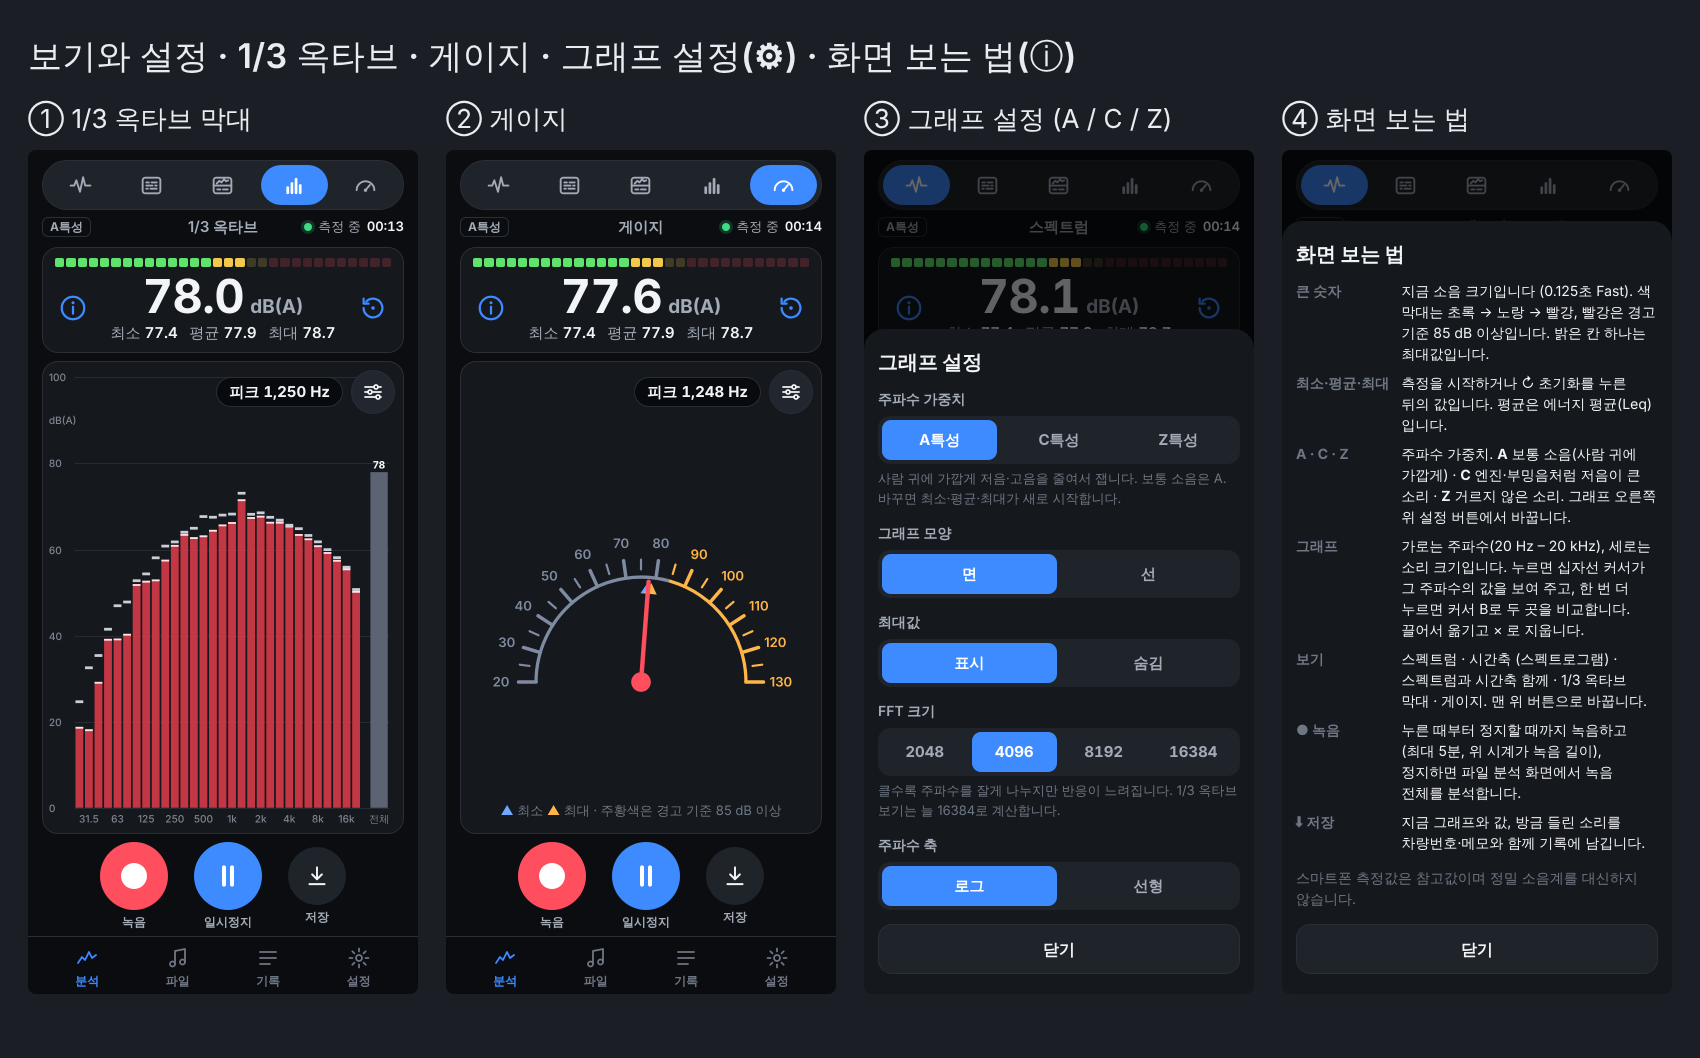
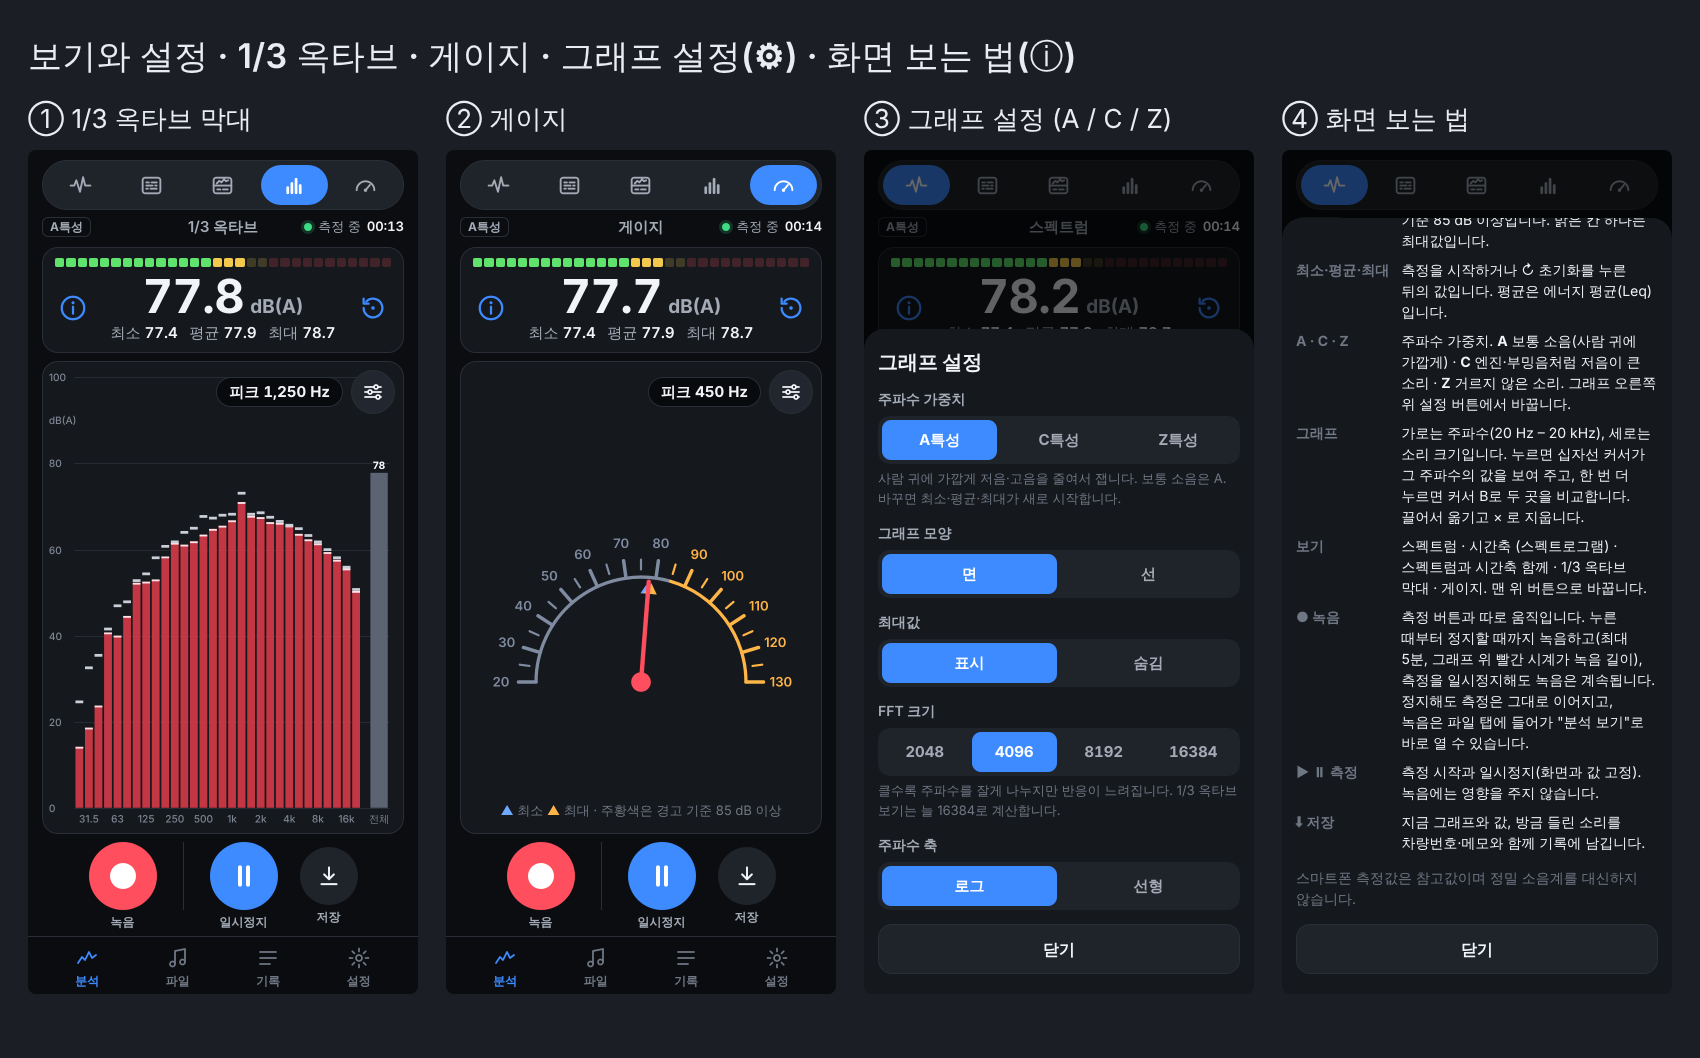
Keep the record button separate from start/pause
- Recording no longer follows the measurement: the record button does not
  resume a paused measurement, pausing does not stop the recording (the worklet
  records while paused; only the display and the "save" buffer hold still), and
  stopping a recording keeps measuring on the analyzer instead of jumping to the
  file screen. The recording goes to the file tab and a toast offers "분석 보기".
- The recording has its own clock in a red badge on the chart; the status line
  always shows the measuring state and time.
- The buttons sit in two groups with a divider: record | start/pause, save.
  Toasts on the analyzer sit above the buttons.
- Tests: the worklet keeps recording while paused; the e2e starts a recording
  while paused, resumes, stops, checks measuring goes on and opens the file.
  Version 0.6.1.

Claude-Session: https://claude.ai/code/session_019bnsVk5WHx5aXZAwj9JYTg

diff --git a/js/app.js b/js/app.js
@@ -62,12 +62,24 @@ function showFatal(err) {
 /* ---------- small UI helpers ---------- */
 
 let toastTimer;
-function toast(message) {
+// action: { label, run } adds a button and keeps the message up longer
+function toast(message, action = null) {
   const el = document.getElementById('toast');
   el.textContent = message;
+  if (action) {
+    const b = document.createElement('button');
+    b.type = 'button';
+    b.className = 'toast-action';
+    b.textContent = action.label;
+    b.onclick = () => {
+      el.hidden = true;
+      action.run();
+    };
+    el.append(b);
+  }
   el.hidden = false;
   clearTimeout(toastTimer);
-  toastTimer = setTimeout(() => (el.hidden = true), 2600);
+  toastTimer = setTimeout(() => (el.hidden = true), action ? 8000 : 2600);
 }
 
 function openSheet(html) {
@@ -214,7 +226,8 @@ function helpSheet() {
         <dt>A · C · Z</dt><dd>주파수 가중치. <b>A</b> 보통 소음(사람 귀에 가깝게) · <b>C</b> 엔진·부밍음처럼 저음이 큰 소리 · <b>Z</b> 거르지 않은 소리. 그래프 오른쪽 위 설정 버튼에서 바꿉니다.</dd>
         <dt>그래프</dt><dd>가로는 주파수(20 Hz – 20 kHz), 세로는 소리 크기입니다. 누르면 십자선 커서가 그 주파수의 값을 보여 주고, 한 번 더 누르면 커서 B로 두 곳을 비교합니다. 끌어서 옮기고 × 로 지웁니다.</dd>
         <dt>보기</dt><dd>${MODES.map((m) => m.label).join(' · ')}. 맨 위 버튼으로 바꿉니다.</dd>
-        <dt>● 녹음</dt><dd>누른 때부터 정지할 때까지 녹음하고(최대 ${MAX_RECORD_SEC / 60}분, 위 시계가 녹음 길이), 정지하면 파일 분석 화면에서 녹음 전체를 분석합니다.</dd>
+        <dt>● 녹음</dt><dd>측정 버튼과 따로 움직입니다. 누른 때부터 정지할 때까지 녹음하고(최대 ${MAX_RECORD_SEC / 60}분, 그래프 위 빨간 시계가 녹음 길이), 측정을 일시정지해도 녹음은 계속됩니다. 정지해도 측정은 그대로 이어지고, 녹음은 파일 탭에 들어가 "분석 보기"로 바로 열 수 있습니다.</dd>
+        <dt>▶ ⏸ 측정</dt><dd>측정 시작과 일시정지(화면과 값 고정). 녹음에는 영향을 주지 않습니다.</dd>
         <dt>⬇ 저장</dt><dd>지금 그래프와 값, 방금 들린 소리를 차량번호·메모와 함께 기록에 남깁니다.</dd>
       </dl>
       <p class="fine">스마트폰 측정값은 참고값이며 정밀 소음계를 대신하지 않습니다.</p>
@@ -248,6 +261,7 @@ async function renderAnalyzer() {
         <div class="gauge-plot"><div class="gauge-host" id="a-gauge"></div>
           <p class="gauge-legend"><span class="gl-min">▲</span> 최소 <span class="gl-max">▲</span> 최대 · 주황색은 경고 기준 ${s.alertLevel} dB 이상</p></div>
         <div class="chart-tools">
+          <p class="rec-badge" id="a-rec-badge" hidden><i></i>녹음 <b id="a-rec-time">00:00</b></p>
           <p class="an-peak" id="a-peak">피크 –</p>
           <button type="button" class="tool-btn" data-act="chart-settings" aria-label="그래프 설정">${ICON.sliders}</button>
         </div>
@@ -258,9 +272,13 @@ async function renderAnalyzer() {
         </div>
       </div>
       <div class="an-controls">
-        <button type="button" class="ctl ctl-rec" data-act="rec" aria-label="녹음 시작"><i class="rec-mark"></i><span class="ctl-cap" id="a-rec-cap">녹음</span></button>
-        <button type="button" class="ctl ctl-main" data-act="toggle" aria-label="측정 시작">${ICON.play}<span class="ctl-cap" id="a-toggle-cap">시작</span></button>
-        <button type="button" class="ctl ctl-save" data-act="save" aria-label="저장">${ICON.save}<span class="ctl-cap">저장</span></button>
+        <div class="ctl-group rec-group" role="group" aria-label="녹음">
+          <button type="button" class="ctl ctl-rec" data-act="rec" aria-label="녹음 시작"><i class="rec-mark"></i><span class="ctl-cap" id="a-rec-cap">녹음</span></button>
+        </div>
+        <div class="ctl-group run-group" role="group" aria-label="측정">
+          <button type="button" class="ctl ctl-main" data-act="toggle" aria-label="측정 시작">${ICON.play}<span class="ctl-cap" id="a-toggle-cap">측정 시작</span></button>
+          <button type="button" class="ctl ctl-save" data-act="save" aria-label="저장">${ICON.save}<span class="ctl-cap">저장</span></button>
+        </div>
       </div>
       <nav class="an-nav" aria-label="메뉴">
         <a href="#/file" aria-label="파일 분석">${ICON.file}</a>
@@ -317,8 +335,8 @@ async function renderAnalyzer() {
     root.dataset.state = paused ? 'pause' : 'run';
     toggleBtn.firstElementChild.outerHTML = paused ? ICON.play : ICON.pause;
     toggleBtn.setAttribute('aria-label', paused ? '다시 측정' : '일시정지');
-    $('a-toggle-cap').textContent = paused ? '계속' : '일시정지';
-    $('a-state').textContent = paused ? '일시정지' : meter?.recording ? '녹음 중' : '측정 중';
+    $('a-toggle-cap').textContent = paused ? '측정 계속' : '일시정지';
+    $('a-state').textContent = paused ? '일시정지' : '측정 중';
   }
 
   function resetDisplays() {
@@ -395,8 +413,7 @@ async function renderAnalyzer() {
     $('a-leq').textContent = fmtDb(meter.leq);
     $('a-max').textContent = fmtDb(meter.lmax);
     $('a-min').textContent = fmtDb(meter.lmin);
-    // while recording the clock shows the length of the recording
-    $('a-time').textContent = fmtClock(meter.recording ? meter.recordedSec : meter.elapsed);
+    $('a-time').textContent = fmtClock(meter.elapsed);
     led.set(db, meter.lmax);
     gauge.set(db);
     gauge.marks(meter.lmin, meter.lmax);
@@ -434,21 +451,28 @@ async function renderAnalyzer() {
     return true;
   }
 
-  // Recorded sound -> a WAV file for the file analysis screen; `notice` instead of going there.
-  function openRecording(samples, rate, notice) {
+  // Recorded sound -> a WAV file in the file tab. Measuring goes on; the message offers to open it.
+  function keepRecording(samples, rate, leaving = false) {
     showRecording(false);
     if (samples.length < rate * 0.5) return toast('녹음이 너무 짧습니다');
     const ts = Date.now();
     openedFile = new File([encodeWav(samples, rate)], `녹음_${fileStamp(ts)}.wav`, { type: 'audio/wav', lastModified: ts });
-    if (notice) toast(notice);
-    else location.hash = '#/file';
+    const len = fmtClock(samples.length / rate);
+    if (leaving) toast(`녹음을 멈췄습니다 (${len}). 녹음한 소리는 파일 탭에 있습니다.`);
+    else toast(`녹음 완료 ${len}`, { label: '분석 보기', run: () => (location.hash = '#/file') });
   }
 
+  // The recording has its own clock (it runs on while measuring is paused).
+  let recTimer = 0;
   function showRecording(on) {
     root.dataset.rec = on ? 'on' : 'off';
     recBtn.setAttribute('aria-label', on ? '녹음 정지' : '녹음 시작');
-    $('a-rec-cap').textContent = on ? '정지' : '녹음';
-    if (meter) showRunning(meter.paused);
+    $('a-rec-cap').textContent = on ? '녹음 정지' : '녹음';
+    $('a-rec-badge').hidden = !on;
+    clearInterval(recTimer);
+    if (!on) return;
+    $('a-rec-time').textContent = '00:00';
+    recTimer = setInterval(() => meter?.recording && ($('a-rec-time').textContent = fmtClock(meter.recordedSec)), 250);
   }
 
   let stopping = false;
@@ -460,7 +484,7 @@ async function renderAnalyzer() {
     const samples = await meter.stopRecording();
     recBtn.disabled = false;
     stopping = false;
-    openRecording(samples, rate);
+    keepRecording(samples, rate);
   }
 
   function stopMic() {
@@ -468,7 +492,7 @@ async function renderAnalyzer() {
     if (meter?.recording) {
       // leaving mid-recording keeps what was recorded, ready in the file tab
       const rate = meter.sampleRate;
-      openRecording(meter.takeRecording(), rate, '녹음을 멈췄습니다. 녹음한 소리는 파일 탭에 있습니다.');
+      keepRecording(meter.takeRecording(), rate, true);
     }
     meter?.stop();
     meter = null;
@@ -477,7 +501,7 @@ async function renderAnalyzer() {
     root.dataset.state = 'off';
     toggleBtn.firstElementChild.outerHTML = ICON.play;
     toggleBtn.setAttribute('aria-label', '측정 시작');
-    $('a-toggle-cap').textContent = '시작';
+    $('a-toggle-cap').textContent = '측정 시작';
     $('a-state').textContent = '대기';
     $('a-now').textContent = '--.-';
     $('a-overlay').hidden = false;
@@ -597,10 +621,11 @@ async function renderAnalyzer() {
     meter.paused = !meter.paused;
     showRunning(meter.paused);
   };
+  // Recording is separate from measuring: it does not resume a paused measurement, pausing does not
+  // stop it, and stopping it leaves the measurement running. It only turns the microphone on if needed.
   recBtn.onclick = async () => {
     if (meter?.recording) return stopRecording();
     if (!(await startMic())) return;
-    meter.paused = false;
     meter.startRecording();
     showRecording(true);
   };

diff --git a/css/app.css b/css/app.css
@@ -119,7 +119,6 @@ body[data-view="home"] main { flex: 1 1 auto; min-height: 0; display: flex; padd
 .rec-dot { width: 8px; height: 8px; border-radius: 50%; background: var(--ink-3); flex-shrink: 0; }
 .analyzer[data-state="run"] .rec-dot { background: #3ddc84; box-shadow: 0 0 0 3px rgb(61 220 132 / 18%); }
 .analyzer[data-state="pause"] .rec-dot { background: var(--amber); }
-.analyzer[data-rec="on"][data-state="run"] .rec-dot { background: var(--rec); box-shadow: 0 0 0 3px rgb(255 79 94 / 25%); }
 
 /* level panel: LED bar, big current value, min / average / max */
 .an-level {
@@ -182,6 +181,11 @@ body[data-view="home"] main { flex: 1 1 auto; min-height: 0; display: flex; padd
   white-space: nowrap;
   pointer-events: none;
 }
+/* recording has its own clock, apart from the measuring status */
+.rec-badge { display: flex; align-items: center; gap: 6px; padding: 3px 10px; border-radius: 999px; background: rgb(60 10 16 / 85%); border: 1px solid rgb(255 79 94 / 70%); color: #ffd6da; font-size: 14px; font-weight: 700; white-space: nowrap; pointer-events: none; }
+.rec-badge i { width: 8px; height: 8px; border-radius: 50%; background: var(--rec); animation: rec-blink 1s steps(2, start) infinite; }
+.rec-badge b { color: #fff; font-variant-numeric: tabular-nums; }
+@keyframes rec-blink { to { visibility: hidden; } }
 .tool-btn { display: grid; place-items: center; width: 44px; height: 44px; padding: 0; border: 1px solid var(--line); border-radius: 50%; background: rgb(36 40 48 / 92%); color: var(--ink); cursor: pointer; }
 .tool-btn svg { width: 24px; height: 24px; }
 .chart-overlay {
@@ -250,8 +254,10 @@ body[data-view="home"] main { flex: 1 1 auto; min-height: 0; display: flex; padd
 .g-needle { stroke: var(--rec); stroke-width: 4; transform-origin: 150px 148px; transform-box: view-box; transition: transform 0.12s linear; }
 .g-hub { fill: var(--rec); stroke: none; }
 
-/* round buttons with a caption: record (red), start / pause (blue), save */
-.an-controls { grid-area: controls; display: flex; align-items: flex-start; justify-content: center; gap: 26px; padding-bottom: 18px; }
+/* round buttons with a caption, in two groups: record (red) | start / pause (blue), save */
+.an-controls { grid-area: controls; display: flex; align-items: flex-start; justify-content: center; padding-bottom: 18px; }
+.ctl-group { display: flex; align-items: flex-start; gap: 22px; }
+.rec-group { padding-right: 26px; margin-right: 26px; border-right: 1px solid var(--line); }
 .ctl {
   position: relative;
   display: grid;
@@ -320,7 +326,9 @@ body[data-view="home"] main { flex: 1 1 auto; min-height: 0; display: flex; padd
   .lv-now b { font-size: clamp(30px, 9vh, 42px); }
   .lv-now span { font-size: 16px; }
   .lv-stats { font-size: 13px; gap: 0 8px; }
-  .an-controls { align-items: center; gap: 10px; padding: 0; }
+  .an-controls { align-items: center; padding: 0; }
+  .ctl-group { align-items: center; gap: 10px; }
+  .rec-group { padding-right: 12px; margin-right: 12px; }
   .ctl { width: 48px; height: 48px; margin: 0; }
   .ctl-main, .ctl-rec { width: 54px; height: 54px; }
   .ctl-main svg { width: 26px; height: 26px; }
@@ -499,6 +507,9 @@ details .field { margin-top: 6px; }
 .chip-pick { border: 1px solid var(--line); background: var(--panel-2); color: var(--ink); border-radius: 999px; min-height: 38px; padding: 0 14px; font: inherit; font-size: 15px; cursor: pointer; }
 
 .toast {
+  display: flex;
+  align-items: center;
+  gap: 12px;
   position: fixed;
   left: 50%;
   bottom: calc(var(--tabbar-h) + 20px + env(safe-area-inset-bottom, 0px));
@@ -517,7 +528,14 @@ details .field { margin-top: 6px; }
 
 @media (prefers-reduced-motion: reduce) {
   *, *::before, *::after { transition: none !important; }
+  .rec-badge i { animation: none; }
 }
+/* on the analyzer the message sits above the round buttons, not on them */
+body[data-view="home"] .toast { bottom: calc(var(--tabbar-h) + 112px + env(safe-area-inset-bottom, 0px)); }
+@media (orientation: landscape) and (min-width: 600px) {
+  body[data-view="home"] .toast { bottom: calc(74px + env(safe-area-inset-bottom, 0px)); }
+}
+.toast-action { flex-shrink: 0; min-height: 34px; padding: 0 12px; border: 0; border-radius: 9px; background: var(--accent); color: var(--accent-ink); font: inherit; font-size: 14px; font-weight: 800; cursor: pointer; }
 
 /* ---------- spectrogram, cursors, sound ---------- */
 

diff --git a/js/level-processor.js b/js/level-processor.js
@@ -1,8 +1,9 @@
 // AudioWorklet: frequency-weights the microphone signal sample by sample and reports
 // energy sums plus the Fast (125 ms) time-weighted level, so Leq, LAFmax and LAFmin
 // are computed from every sample rather than from sampled analyser frames.
-// It also keeps the last `ringSec` seconds of raw sound, so "save" can include what was just heard,
-// and while recording it posts the raw sound in chunks.
+// It also keeps the last `ringSec` seconds of raw sound, so "save" can include what was just heard
+// (held still while paused), and while recording it posts the raw sound in chunks (paused or not:
+// recording is separate from measuring).
 // Filter coefficients come from dsp.js via processorOptions, and again in a 'sos' message when
 // the weighting changes.
 
@@ -82,7 +83,7 @@ class LevelProcessor extends AudioWorkletProcessor {
     const sos = this.sos;
     const st = this.state;
     const ring = this.paused ? null : this.ring;
-    const rec = this.paused ? null : this.rec;
+    const rec = this.rec;
     for (let i = 0; i < ch.length; i++) {
       const x = ch[i];
       if (ring) {

diff --git a/js/meter.js b/js/meter.js
@@ -156,7 +156,7 @@ export class Meter {
     this.resetStats();
   }
 
-  // Records the raw microphone sound (not while paused) until stopRecording() or MAX_RECORD_SEC.
+  // Records the raw microphone sound until stopRecording() or MAX_RECORD_SEC, also while paused.
   startRecording() {
     if (!this.node || this.recording) return;
     this.recording = { chunks: [], samples: 0, done: null };

diff --git a/sw.js b/sw.js
@@ -1,6 +1,6 @@
 // Offline support: the app shell is cached so measuring works without signal.
 // Bump VERSION whenever any cached file changes so phones pick up the update.
-const VERSION = 'v0.6.0';
+const VERSION = 'v0.6.1';
 const CACHE = `noise-meter-${VERSION}`;
 const FILES = [
   './',

diff --git a/js/settings.js b/js/settings.js
@@ -1,6 +1,6 @@
 // Per-device settings (kept in localStorage).
 
-export const APP_VERSION = '0.6.0';
+export const APP_VERSION = '0.6.1';
 
 const KEY = 'noise-meter:settings:v1';
 

diff --git a/CLAUDE.md b/CLAUDE.md
@@ -4,7 +4,7 @@ This file provides guidance to Claude Code (and other AI assistants) when workin
 
 ## Project Overview
 
-A company-internal real-time noise analyzer web app (PWA) for field use, referencing common analyzer apps but with its own features. It opens on a live FFT spectrum (x: 20 Hz – 20 kHz, y: weighted dB per bin, A by default) under a level panel (LED bar, big current value, min / average / max, help and reset buttons), in portrait and landscape layouts. A mode bar switches between spectrum, spectrogram (time axis), both, 1/3-octave bars and a needle gauge; a graph-settings sheet sets A/C/Z weighting, fill/line, max hold, FFT size and axis. Own features: crosshair A/B cursors, a red record button (record until stop, then the whole recording opens in the file analysis), attached-file analysis, and "save" that keeps the last N seconds of sound (rolling buffer) with the snapshot for playback and WAV sharing. Snapshots also carry vehicle number and memo, share as image + text, and export as CSV. There is no report feature (the user asked to drop it). UI text is Korean.
+A company-internal real-time noise analyzer web app (PWA) for field use, referencing common analyzer apps but with its own features. It opens on a live FFT spectrum (x: 20 Hz – 20 kHz, y: weighted dB per bin, A by default) under a level panel (LED bar, big current value, min / average / max, help and reset buttons), in portrait and landscape layouts. A mode bar switches between spectrum, spectrogram (time axis), both, 1/3-octave bars and a needle gauge; a graph-settings sheet sets A/C/Z weighting, fill/line, max hold, FFT size and axis. Own features: crosshair A/B cursors, a red record button kept separate from start/pause (record until stop; the recording goes to the file analysis, opened from a toast), attached-file analysis, and "save" that keeps the last N seconds of sound (rolling buffer) with the snapshot for playback and WAV sharing. Snapshots also carry vehicle number and memo, share as image + text, and export as CSV. There is no report feature (the user asked to drop it). UI text is Korean.
 
 - **Language / runtime:** Vanilla JavaScript ES modules in the browser; Node 22 for tests
 - **Framework(s):** None. Web Audio (AudioWorklet + AnalyserNode), Canvas, IndexedDB, Service Worker
@@ -50,8 +50,8 @@ No build step. After changing any cached file, bump `VERSION` in `sw.js` (and ad
 - **Measurement chain:** levels come from the worklet (every sample), never from analyser frames. dB SPL = dBFS + per-device `offset` (calibration). The first 0.5 s after start/reset/weighting change is discarded. Calibration always measures with A weighting.
 - **Weighting:** `settings.weighting` ('A' | 'C' | 'Z') applies to the worklet filter, the per-bin spectrum table and file/record analysis alike; units come from `unitOf()` (dB(A), dB(C), dB(Z), dBFS(A) ...). Records store `weighting` and `unit`; old records without them are A.
 - **Spectrum values:** per-bin dB = analyser dB + 10·log10(2/Blackman power) + W(f) + offset, so bins sum to the overall level. Peak labels come from a ~1 s averaged spectrum (steady), not the raw frame. 1/3-octave bands are energy sums of those bins; the octave view runs the analyser at 16384 so every band has bins.
-- **Layouts:** portrait = mode bar, sub row (weighting, mode name, status), level panel, chart (fills spare height, peak pill + settings button top right), round buttons with captions (record, start/pause, save); landscape (>= 600px wide) = chart full screen with the level panel (status in its top row) floating top left, and one bottom row of buttons, mode bar and nav; the tab bar hides on the analyzer in landscape.
-- **Recording:** raw PCM from the worklet, at most 5 min (`MAX_RECORD_SEC`, the file analysis limit); on stop it becomes a WAV `File` in `openedFile` and the app goes to #/file. Leaving the screen mid-recording keeps what was recorded there without navigating. While recording, the status clock shows the recording length.
+- **Layouts:** portrait = mode bar, sub row (weighting, mode name, status), level panel, chart (fills spare height, peak pill + settings button top right), round buttons with captions in two groups (record | start/pause, save); landscape (>= 600px wide) = chart full screen with the level panel (status in its top row) floating top left, and one bottom row of buttons, mode bar and nav; the tab bar hides on the analyzer in landscape.
+- **Recording is separate from measuring (start/pause):** the record button never resumes a paused measurement (it only starts the mic if it is off), pausing does not stop the worklet's recording (only the display and the "save" ring buffer hold still), and stopping keeps measuring on the analyzer. Raw PCM from the worklet, at most 5 min (`MAX_RECORD_SEC`, the file analysis limit); on stop it becomes a WAV `File` in `openedFile` and a toast offers "분석 보기" (#/file). Leaving the screen mid-recording keeps what was recorded there. The recording has its own clock (`#a-rec-time` in the red badge on the chart); the status clock always shows measuring time.
 - **Frequency axis** is always 20 Hz – 20 kHz (log) / 0 – 20 kHz (linear); the spectrogram uses the same plotBox so columns line up with the spectrum.
 - **Saved snapshots** store a 241-point log-spaced resample (20 Hz and 20 kHz included) of the current and max-hold spectra (missing points as -999), stats, peaks and, if enabled, `audio` (WAV Blob) + `audioSec`. The record screen recomputes the spectrogram from the WAV with `stft()` (same analyser convention, so levels match the live view).
 - **Attached files** are analysed on the device only: decode -> analyzeSound() with the calibration offset ("보정 dB(A)") or 0 ("파일 dBFS"). Saved file records have `source: 'file'`, `fileName`, `unit`, and keep the original file as `audio` when <= 30 MB. Records with sound (mic or file) rebuild spectrogram + timeline with analyzeSound() on open.
